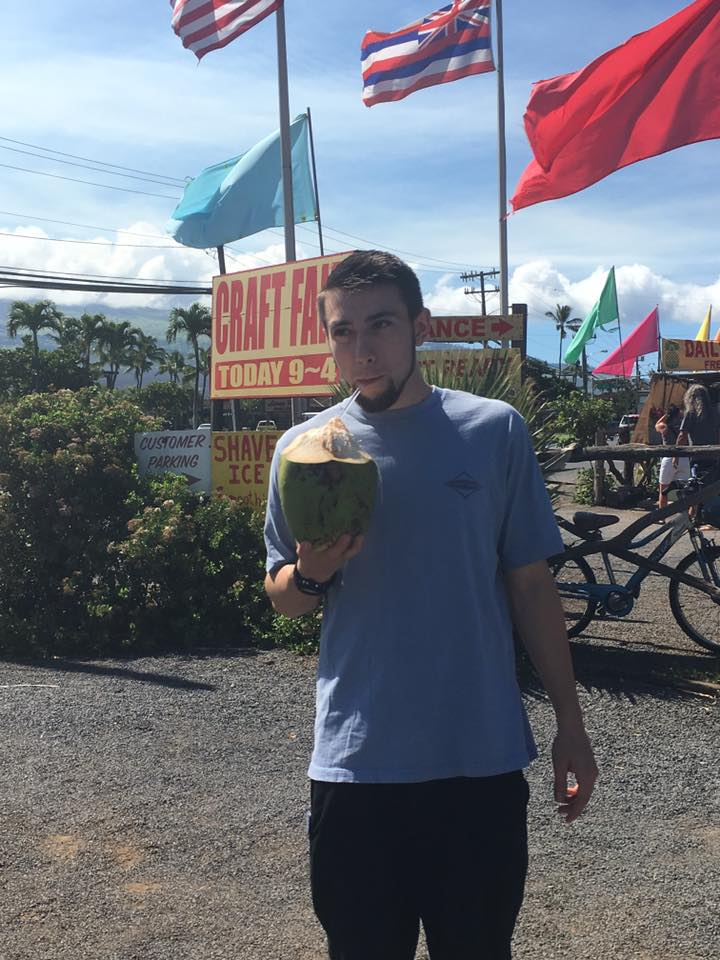
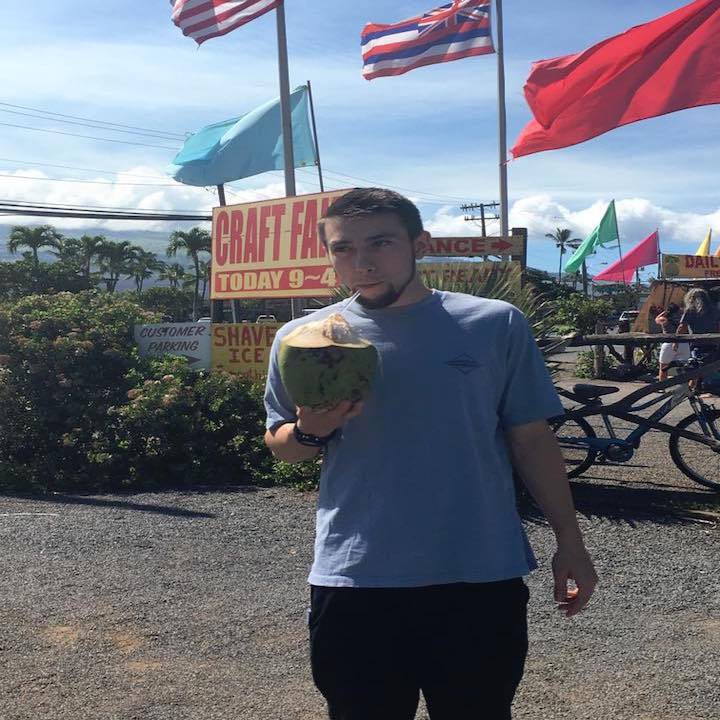
add image styling and header margin

Changed region(s): [[0.9778, 0.7028, 1.0, 0.7333]]

diff --git a/css/styles.css b/css/styles.css
@@ -1,3 +1,17 @@
 #image {
   border-radius: 50%;
+  display: block;
+  margin-left: auto;
+  margin-right: auto;
+  width: 300px;
+}
+
+h1 {
+  text-align: center;
+  margin-top: 7px;
+  margin-left: auto;
+  margin-right: auto;
+  font-family: cursive;
+  font-size: 50px;
+  color: #0CBDDC;
 }
